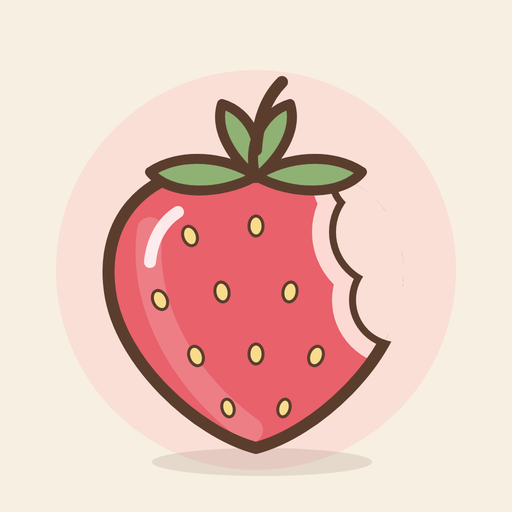
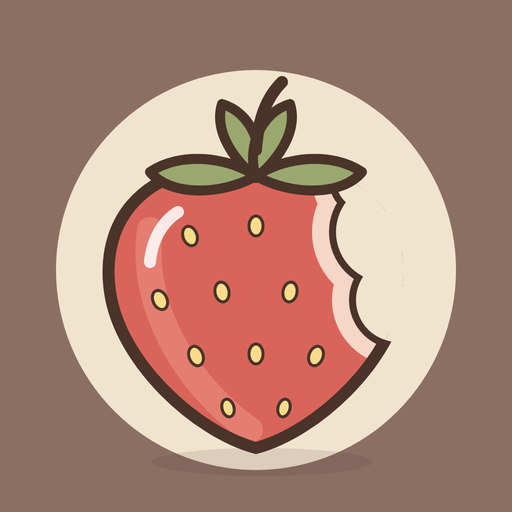
Darker cozy autumn palette: cocoa background, cream cards, sage & terracotta
Icon recolored to match.

Claude-Session: https://claude.ai/code/session_018CiYVqWV5q9BFMFXtCW49v

diff --git a/styles.css b/styles.css
@@ -1,21 +1,23 @@
 /* Cozy, hand-drawn look: warm paper background, ink outlines, sticker-like offset shadows. */
 :root {
-  --bg: #f7efe1;          /* warm paper */
-  --card: #fffaf2;        /* card paper */
-  --card2: #f3e6d0;       /* tan, buttons / chips */
-  --track: #eedfc8;       /* ring & bar tracks */
-  --ink: #5b3d2e;         /* outline brown */
-  --text: #4a3228;
-  --muted: #9b8172;
-  --line-soft: #e8d8c0;
-  --accent: #86ad63;      /* leaf green */
-  --accent-ink: #2f4a1f;
-  --accent2: #8fd0e2;     /* sky blue */
-  --accent2-ink: #1f4752;
-  --berry: #e8616b;       /* strawberry */
-  --berry-soft: #f9dfd6;
-  --warn: #d99a2b;
-  --danger: #d9605a;
+  --bg: #8b6f63;          /* cocoa */
+  --bg-line: rgba(255,240,220,.07);
+  --on-bg: #f4e8d6;       /* text sitting directly on the cocoa background */
+  --card: #f1e4cf;        /* cream card */
+  --card2: #e3cfb2;       /* tan, buttons / chips */
+  --track: #dcc6a6;       /* ring & bar tracks */
+  --ink: #4a3329;         /* outline brown */
+  --text: #4a3329;
+  --muted: #8a6f60;
+  --line-soft: #d8c3a3;
+  --accent: #9aa86f;      /* muted sage */
+  --accent-ink: #2c3516;
+  --accent2: #a9c2c4;     /* dusty blue */
+  --accent2-ink: #233d40;
+  --berry: #d3715d;       /* terracotta strawberry */
+  --berry-soft: #f0d2c2;
+  --warn: #d4913a;
+  --danger: #b9503f;
   --radius: 18px;
   --shadow: 3px 3px 0 var(--ink);
   --safe-b: env(safe-area-inset-bottom, 0px);
@@ -26,10 +28,12 @@
 html, body { margin: 0; background: var(--bg); color: var(--text);
   font-family: "Nunito", -apple-system, BlinkMacSystemFont, system-ui, sans-serif; font-size: 16px; }
 body { padding-top: var(--safe-t); padding-bottom: calc(80px + var(--safe-b)); min-height: 100vh;
-  background-image: radial-gradient(rgba(91,61,46,.06) 1px, transparent 1.2px); background-size: 18px 18px; }
+  /* soft plaid grid */
+  background-image: linear-gradient(var(--bg-line) 1px, transparent 1px), linear-gradient(90deg, var(--bg-line) 1px, transparent 1px);
+  background-size: 22px 22px; }
 .topbar { padding: 14px 18px 4px; max-width: 560px; margin: 0 auto; display: flex; align-items: center; gap: 10px; }
-.topbar img { width: 34px; height: 34px; border-radius: 10px; border: 2px solid var(--ink); }
-.topbar h1 { margin: 0; font-family: var(--font-display); font-size: 27px; font-weight: 600; letter-spacing: .2px; }
+.topbar img { width: 34px; height: 34px; border-radius: 10px; border: 2px solid var(--ink); box-shadow: 2px 2px 0 var(--ink); }
+.topbar h1 { color: var(--on-bg); margin: 0; font-family: var(--font-display); font-size: 27px; font-weight: 600; letter-spacing: .2px; }
 main { padding: 8px 16px 24px; max-width: 560px; margin: 0 auto; }
 .hidden { display: none !important; }
 
@@ -134,3 +138,10 @@ label { display: block; font-size: 13.5px; color: var(--muted); margin: 12px 0 5
 .stat { background: var(--bg) !important; box-shadow: none !important; border-width: 1.5px !important; }
 .dialog { z-index: 70; }
 .visually-hidden { position: absolute; width: 1px; height: 1px; opacity: 0; overflow: hidden; pointer-events: none; }
+
+/* Things that sit directly on the cocoa background */
+main > .center:not(.card), main > .center:not(.card) button.link { color: var(--on-bg); text-decoration-color: var(--berry-soft); }
+main > p.muted:not(.card), main > .muted:not(.card) { color: #e6d4bd; }
+.toast { background: var(--card); color: var(--text); border: 2px solid var(--ink); box-shadow: var(--shadow); }
+input, select, textarea { background: #fbf4e8; }
+.ai-item, .stat { background: #f8eedd !important; }

diff --git a/app.js b/app.js
@@ -3,7 +3,7 @@
 
 // ---------- Storage ----------
 const STORE_KEY = 'fastcal_v1';
-const APP_VERSION = '12';
+const APP_VERSION = '13';
 const MEALS = [
   { id: 'breakfast', label: 'Breakfast' },
   { id: 'lunch', label: 'Lunch' },
@@ -694,7 +694,7 @@ function renderWeight() {
       <div class="small" style="text-align:right">${weekAgo ? `7d: <b>${delta(latest.value - weekAgo.value)}</b><br>` : ''}Total: <b>${delta(latest.value - first.value)}</b></div></div>
       <div class="seg" style="margin-top:12px" id="rangeSeg">${['30', '90', '365', 'all'].map(r => `<button data-r="${r}" class="${weightRange === r ? 'active' : ''}">${r === 'all' ? 'All' : r === '365' ? '1y' : r + 'd'}</button>`).join('')}</div>
       <div class="chart" id="chart"></div>
-      <div class="small muted"><span style="color:#e8616b">●</span> daily weigh-in &nbsp; <span style="color:#86ad63">━</span> 7-day trend</div>
+      <div class="small muted"><span style="color:#d3715d">●</span> daily weigh-in &nbsp; <span style="color:#9aa86f">━</span> 7-day trend</div>
     </div>
     <div class="card"><h3>History</h3><ul class="list">${[...ws].reverse().slice(0, 60).map(w => `<li><span class="name">${fmtDay(w.date)}</span><span class="kcal">${w.value} ${unit}</span><button class="icon" data-delw="${w.date}">✕</button></li>`).join('')}</ul></div>` : '<div class="card muted">Log your first weigh-in to see your trend.</div>'}`;
   document.getElementById('wAdd').onclick = () => {
@@ -723,11 +723,11 @@ function drawChart(el, ws) {
   const y = v => P.t + (hi - v) / (hi - lo) * (H - P.t - P.b);
   const ticks = [lo + pad, (lo + hi) / 2, hi - pad];
   el.innerHTML = `<svg viewBox="0 0 ${W} ${H}">
-    ${ticks.map(t => `<line x1="${P.l}" x2="${W - P.r}" y1="${y(t)}" y2="${y(t)}" stroke="#e8d8c0" stroke-dasharray="3 3"/><text x="${P.l - 4}" y="${y(t) + 4}" fill="#9b8172" font-size="10" text-anchor="end">${t.toFixed(1)}</text>`).join('')}
-    <text x="${P.l}" y="${H - 6}" fill="#9b8172" font-size="10">${fmtDay(pts[0].date)}</text>
-    <text x="${W - P.r}" y="${H - 6}" fill="#9b8172" font-size="10" text-anchor="end">${fmtDay(pts[pts.length - 1].date)}</text>
-    ${tr.length > 1 ? `<polyline fill="none" stroke="#86ad63" stroke-width="3" stroke-linecap="round" stroke-linejoin="round" points="${tr.map(p => `${x(p.date)},${y(p.value)}`).join(' ')}"/>` : ''}
-    ${pts.map(p => `<circle cx="${x(p.date)}" cy="${y(p.value)}" r="3.5" fill="#e8616b" stroke="#5b3d2e" stroke-width="1"/>`).join('')}
+    ${ticks.map(t => `<line x1="${P.l}" x2="${W - P.r}" y1="${y(t)}" y2="${y(t)}" stroke="#d8c3a3" stroke-dasharray="3 3"/><text x="${P.l - 4}" y="${y(t) + 4}" fill="#8a6f60" font-size="10" text-anchor="end">${t.toFixed(1)}</text>`).join('')}
+    <text x="${P.l}" y="${H - 6}" fill="#8a6f60" font-size="10">${fmtDay(pts[0].date)}</text>
+    <text x="${W - P.r}" y="${H - 6}" fill="#8a6f60" font-size="10" text-anchor="end">${fmtDay(pts[pts.length - 1].date)}</text>
+    ${tr.length > 1 ? `<polyline fill="none" stroke="#9aa86f" stroke-width="3" stroke-linecap="round" stroke-linejoin="round" points="${tr.map(p => `${x(p.date)},${y(p.value)}`).join(' ')}"/>` : ''}
+    ${pts.map(p => `<circle cx="${x(p.date)}" cy="${y(p.value)}" r="3.5" fill="#d3715d" stroke="#4a3329" stroke-width="1"/>`).join('')}
   </svg>`;
 }
 

diff --git a/index.html b/index.html
@@ -4,10 +4,10 @@
   <meta charset="utf-8">
   <meta name="viewport" content="width=device-width, initial-scale=1, viewport-fit=cover">
   <title>FastCal</title>
-  <meta name="theme-color" content="#f7efe1">
+  <meta name="theme-color" content="#8b6f63">
   <meta name="apple-mobile-web-app-capable" content="yes">
   <meta name="mobile-web-app-capable" content="yes">
-  <meta name="apple-mobile-web-app-status-bar-style" content="default">
+  <meta name="apple-mobile-web-app-status-bar-style" content="black-translucent">
   <meta name="apple-mobile-web-app-title" content="FastCal">
   <link rel="manifest" href="manifest.json">
   <link rel="icon" href="icons/icon-192.png">

diff --git a/sw.js b/sw.js
@@ -1,5 +1,5 @@
 // Offline-first cache for the app shell. Bump VERSION when you change files so phones pick up updates.
-const VERSION = 'fastcal-v12';
+const VERSION = 'fastcal-v13';
 const SHELL = ['./', 'index.html', 'styles.css', 'foods.js', 'app.js', 'manifest.json', 'icons/icon-192.png', 'icons/icon-512.png', 'icons/apple-touch-icon.png', 'icons/icon.svg'];
 
 self.addEventListener('install', e => {
